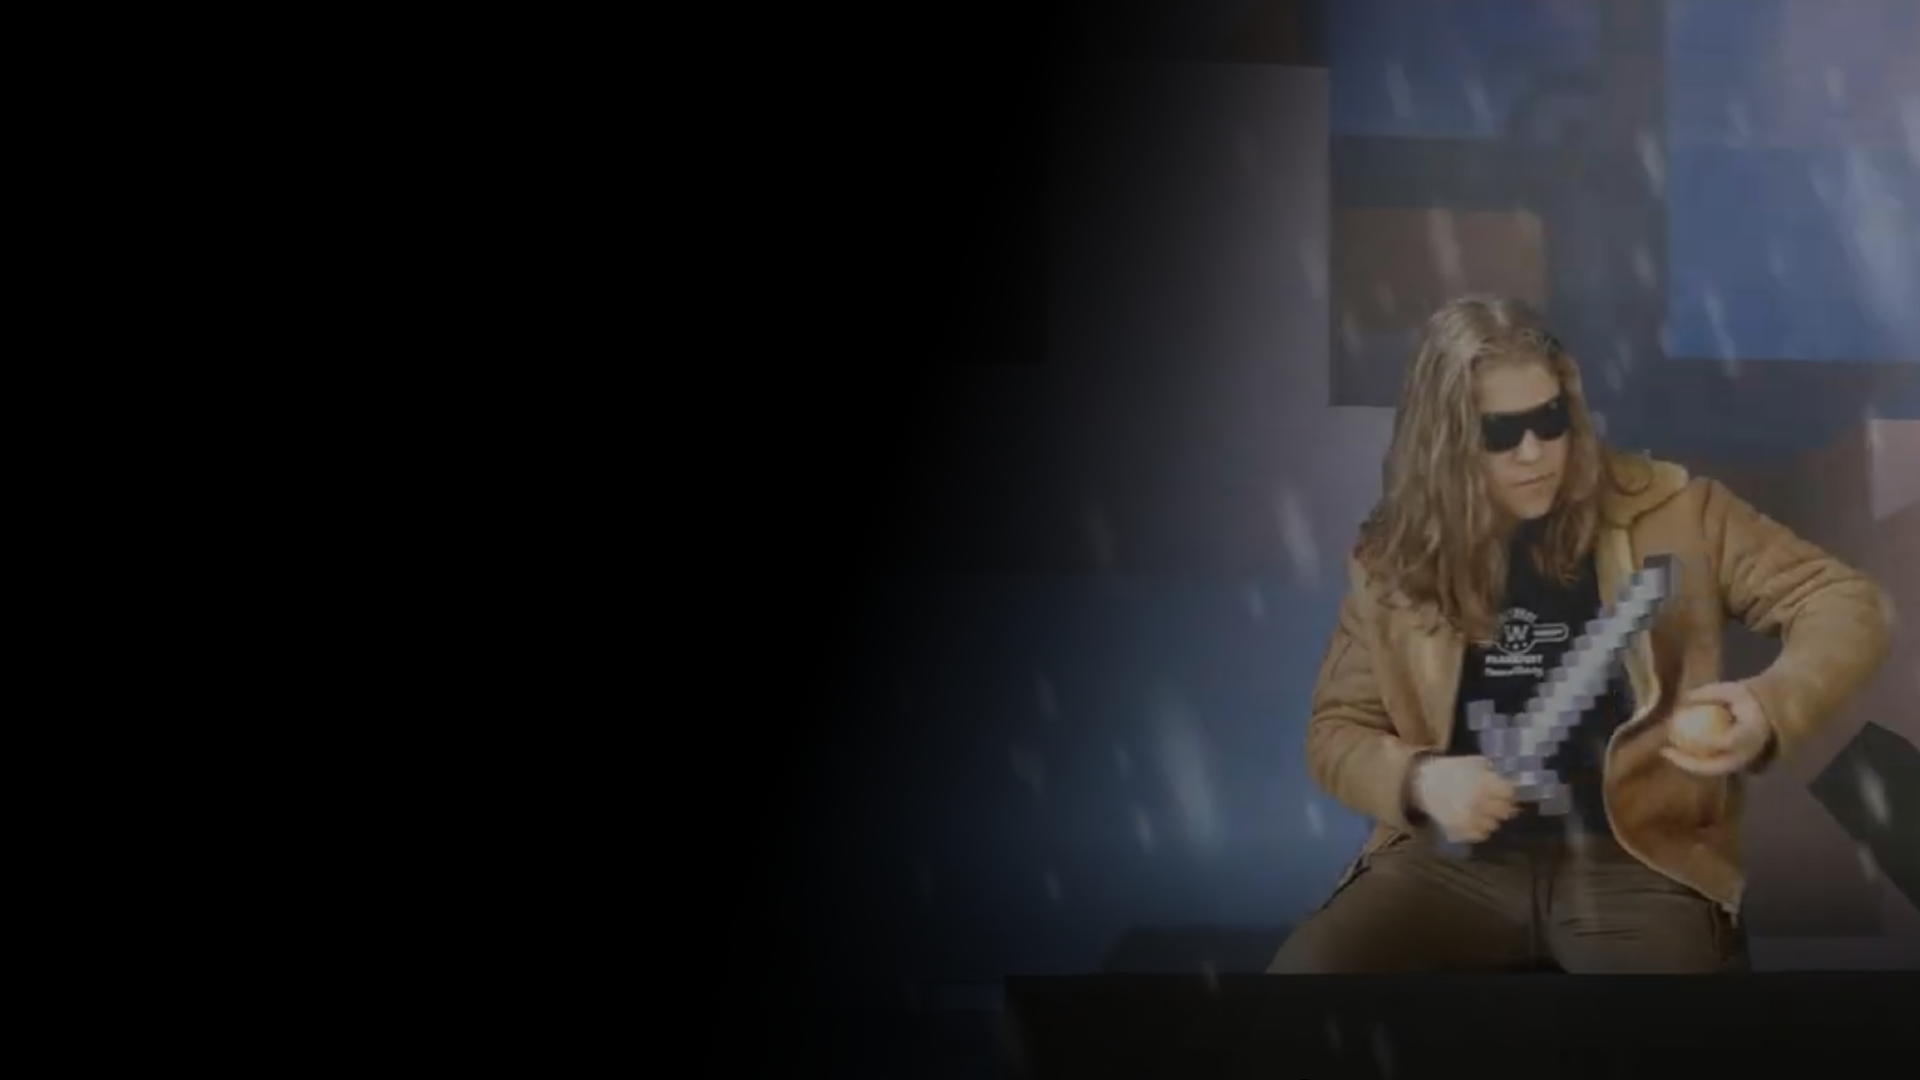
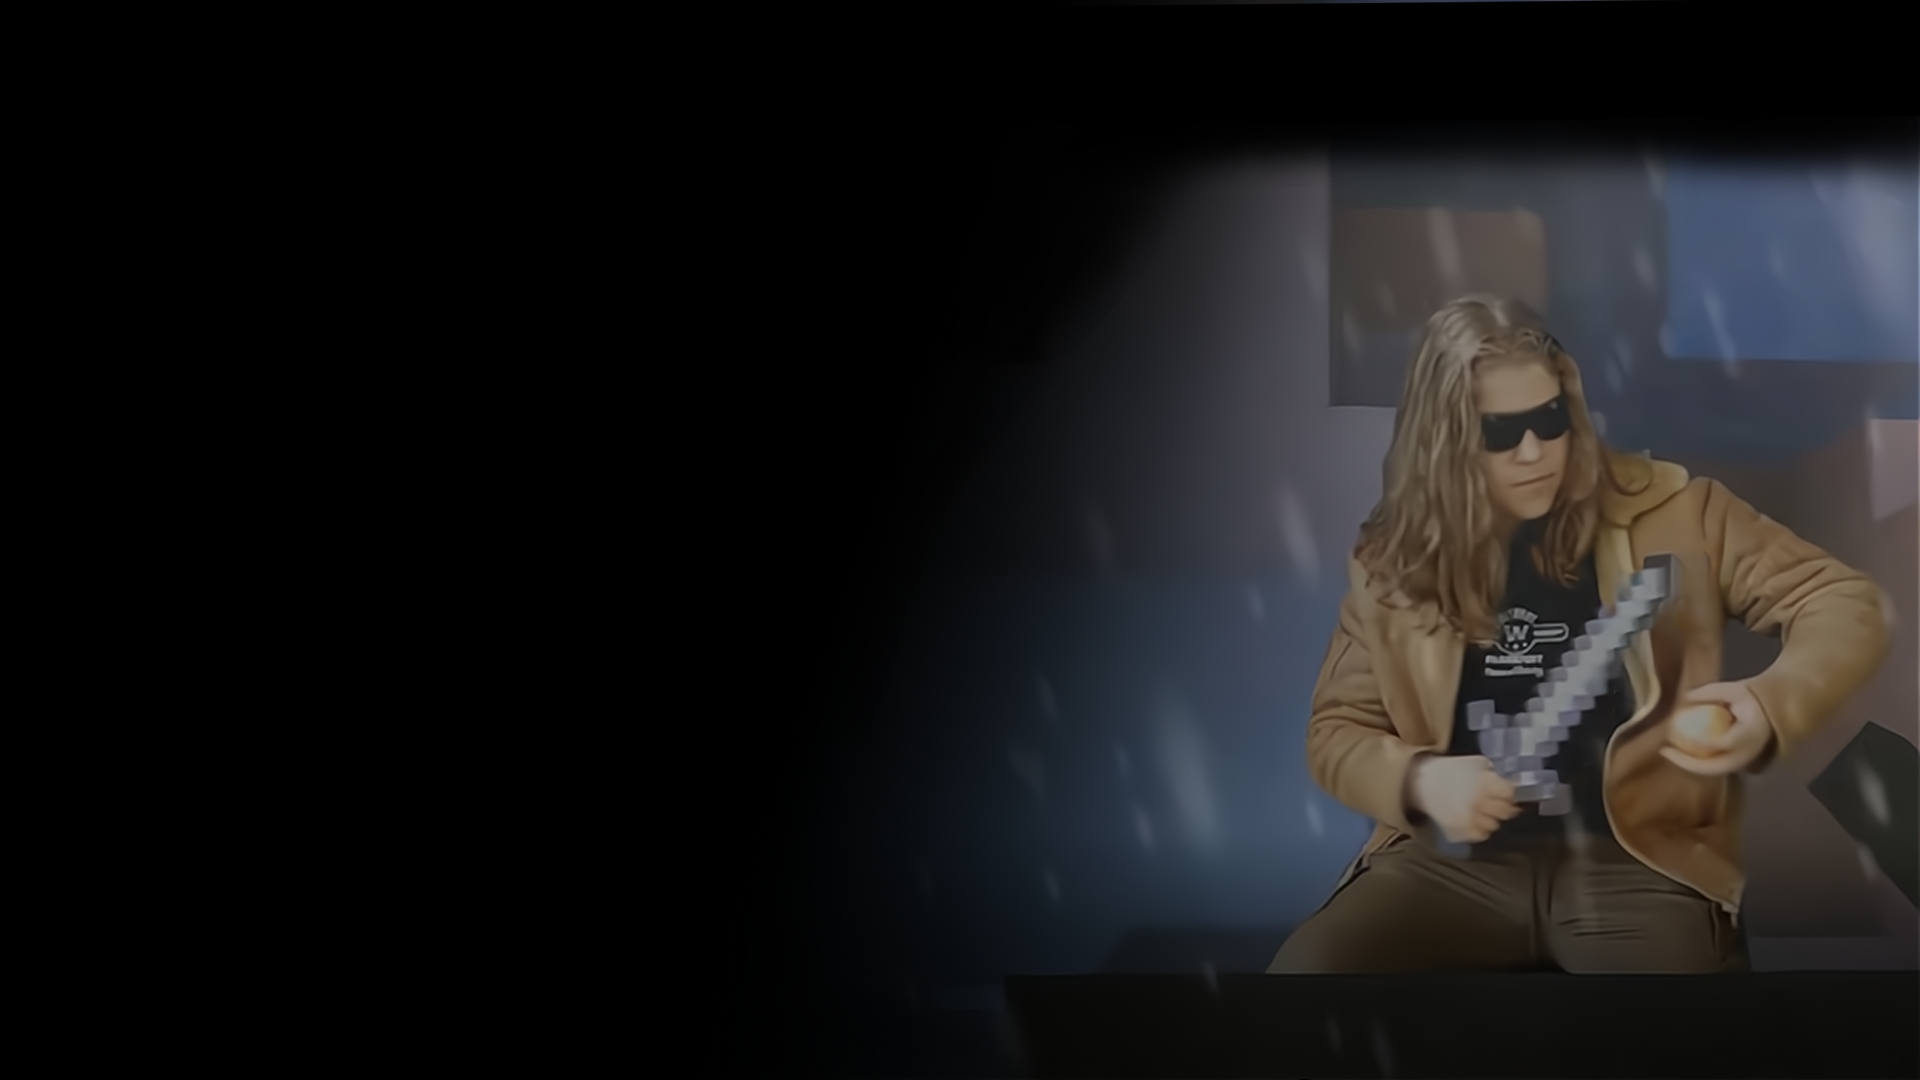
Da

Changed region(s): [[0.5938, 0.0, 1.0, 0.1833]]

diff --git a/Probleme_de_Craciun.html b/Probleme_de_Craciun.html
@@ -1,6 +1,10 @@
 <!DOCTYPE html>
 <html lang="en">
 <head>
+    <meta name="viewport" content="width=device-width, initial-scale=1.0">
+    <meta charset="UTF-8">
+    <title>Probleme de Craciun</title>
+    <link rel="stylesheet" href="style3.css">
     <div class="tabel">
         <div class="container">
             <header>
@@ -16,15 +20,9 @@
             </header> 
         </div>
       </div>
-    <meta name="viewport" content="width=device-width, initial-scale=1.0">
-    <meta charset="UTF-8">
-    <title>Probleme de Craciun</title>
-    <link rel="stylesheet" href="style1.css">
 </head>
 <body>
     <div class="video">
-        <a href="#" class="logo"><img src="logo.png"></a>
-        <div class="toggle"><img src="images/toggle.png"></div>
     </div>
     <div class="banner">
         <div class="content">

diff --git a/Super_Baterel.html b/Super_Baterel.html
@@ -1,6 +1,10 @@
 <!DOCTYPE html>
 <html lang="en"></html>
 <head>
+    <meta name="viewport" content="width=device-width, initial-scale=1.0">
+    <meta charset="UTF-8">
+    <title>Super Baterel</title>
+    <link rel="stylesheet" href="style2.css">
     <div class="tabel">
         <div class="container">
             <header>
@@ -16,15 +20,9 @@
             </header> 
         </div>
       </div>
-    <meta name="viewport" content="width=device-width, initial-scale=1.0">
-    <meta charset="UTF-8">
-    <title>Super Baterel</title>
-    <link rel="stylesheet" href="style1.css">
 </head>
 <body>
     <div class="video">
-        <a href="#" class="logo"><img src="logo.png"></a>
-        <div class="toggle"><img src="images/toggle.png"></div>
     </div>
     <div class="banner">
         <div class="content">

diff --git a/Minecraft_Code.html b/Minecraft_Code.html
@@ -1,6 +1,9 @@
 <!DOCTYPE html>
 <html lang="en">
 <head>
+    <meta name="viewport" content="width=device-width, initial-scale=1.0">
+    <meta charset="UTF-8">
+    <title>Minecraft Code</title>
     <link rel="stylesheet" href="style1.css">
     <div class="tabel">
         <div class="container">
@@ -19,14 +22,9 @@
             </header> 
         </div>
       </div>
-    <meta name="viewport" content="width=device-width, initial-scale=1.0">
-    <meta charset="UTF-8">
-    <title>Minecraft Code</title>
 </head>
 <body>
     <div class="video">
-        <a href="#" class="logo"><img src="logo.png"></a>
-        <div class="toggle"><img src="images/toggle.png"></div>
     </div>
     <div class="banner">
         <div class="content">

diff --git a/style3.css b/style3.css
@@ -1,3 +1,7 @@
+.head
+{
+  position: relative;
+}
 .tabel
 {
     width: 100%;
@@ -104,11 +108,12 @@
 body
 {
 display: flex;
+position: relative;
 justify-content: flex-start;
 flex-wrap: wrap;
 min-height: 50vh;
 background: #010615;
-background-image: url(images/bg.png);
+background-image: url(images/bg3.png);
 }
 .video
 {

diff --git a/style2.css b/style2.css
@@ -108,7 +108,11 @@ justify-content: flex-start;
 flex-wrap: wrap;
 min-height: 50vh;
 background: #010615;
-background-image: url(images/bg.png);
+background-image: url(images/bg2.png);
+}
+.bg3
+{
+  background-image: url(images/bg3.png);
 }
 .video
 {
